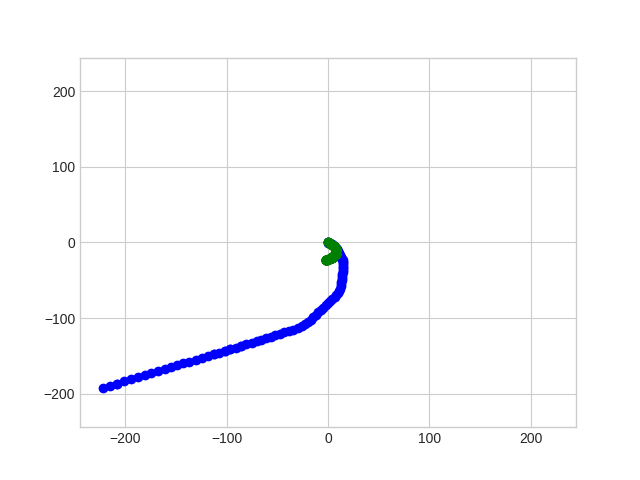
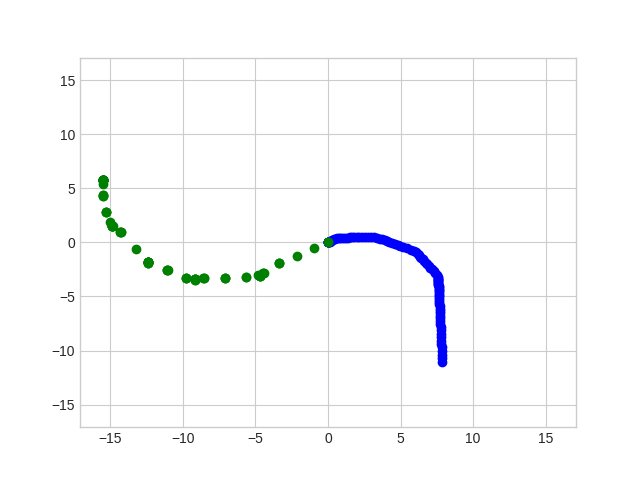
update calibration of sensor position

diff --git a/measure/measure_all.py b/measure/measure_all.py
@@ -93,9 +93,10 @@ def update_position(left_prev, right_prev, vel_prev, mu_control_prev, mu_sensor_
     nu_control = scale * (left_delta + right_delta) / (2 * delta_time)  # should be cm/s
 
     # TODO: Test the below decompositions, then refactor
-    accel_forward = new_reading.get('accel_z') * 10
-    accel_side = new_reading.get('accel_x') * 10
-    
+    # Calibration from 7/19 [0.554, -0.235, 1.755]
+    accel_forward = (new_reading.get('accel_z') - 1.755) 
+    accel_side = (new_reading.get('accel_x') - 0.554)
+        
     vel_now = vel_prev + delta_time * np.array([
         accel_forward * np.sin(theta_sensor_prev) + accel_side * np.cos(theta_sensor_prev),
         accel_forward * np.cos(theta_sensor_prev) + accel_side * np.sin(theta_sensor_prev)
@@ -104,7 +105,8 @@ def update_position(left_prev, right_prev, vel_prev, mu_control_prev, mu_sensor_
     # TODO: Decompose back to velocity in forward direction
     # Total velocity is L2 Norm
     # nu_sensor?
-    nu_sensor = np.sqrt(vel_now[0]**2 + vel_now[1]**2)
+    # nu_sensor = np.sqrt(vel_now[0]**2 + vel_now[1]**2)
+    nu_sensor = np.abs(np.sin(theta_sensor_prev) * vel_now[0]) + np.abs(np.cos(theta_sensor_prev) * vel_now[1])
 
     # Theta from Odometer
     rotation_scale = 5.5
@@ -124,10 +126,16 @@ def update_position(left_prev, right_prev, vel_prev, mu_control_prev, mu_sensor_
         omega_control_star = 10e-4
         theta_control_new_star = theta_control_prev + 10e-4 * delta_time
 
-    # vel = omega (0 ~ 10e-4) * r (inf ~ vel / 10e-4)
-
     r_control = nu_control / omega_control_star
-    r_sensor = nu_sensor / omega_sensor if np.abs(omega_sensor) > 10e-6 else nu_sensor / 10e-6
+
+    if np.abs(omega_sensor) > 10e-4:
+        omega_sensor_star = omega_sensor
+        theta_sensor_new_star = theta_sensor_prev + theta_delta_sensor
+    else:
+        omega_sensor_star = 10e-4
+        theta_sensor_new_star = theta_sensor_prev + 10e-4 * delta_time
+
+    r_sensor = nu_sensor / omega_sensor_star
 
     # r_control = nu_control / omega_control_star if np.abs(omega_control) > 10e-6 else nu_control / 10e-6
     # r_sensor = nu_sensor / omega_sensor if np.abs(omega_sensor) > 10e-6 else nu_sensor / 10e-6
@@ -141,8 +149,8 @@ def update_position(left_prev, right_prev, vel_prev, mu_control_prev, mu_sensor_
     ])
 
     mu_sensor_new = mu_sensor_prev + np.array([
-        [r_sensor * (np.sin(theta_sensor_new) - np.sin(theta_sensor_prev))],
-        [r_sensor * (np.cos(theta_sensor_prev) - np.cos(theta_sensor_new))],
+        [r_sensor * (np.sin(theta_sensor_new_star) - np.sin(theta_sensor_prev))],
+        [r_sensor * (np.cos(theta_sensor_prev) - np.cos(theta_sensor_new_star))],
         [omega_sensor * delta_time]
     ])
 
